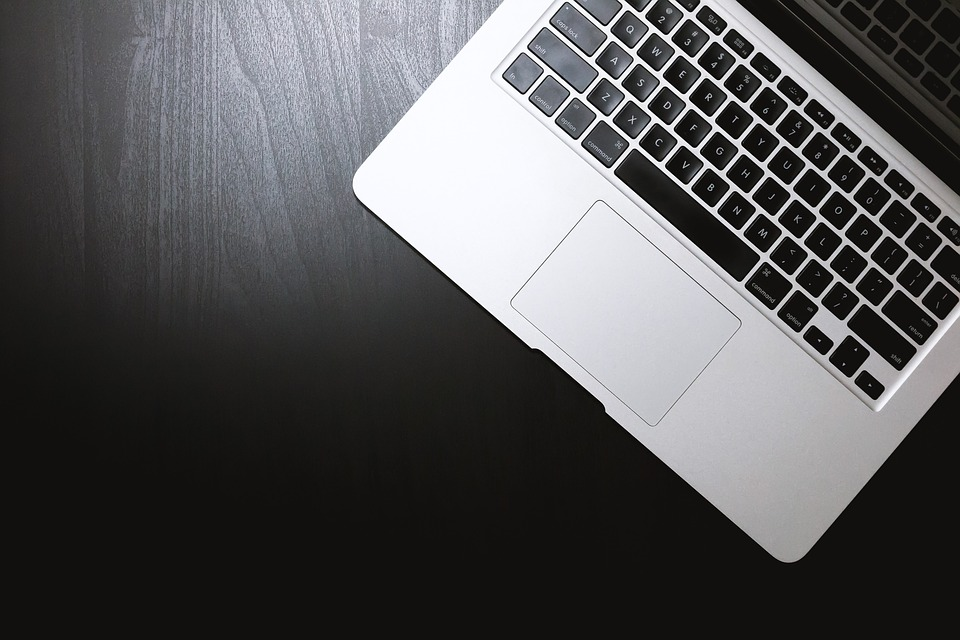
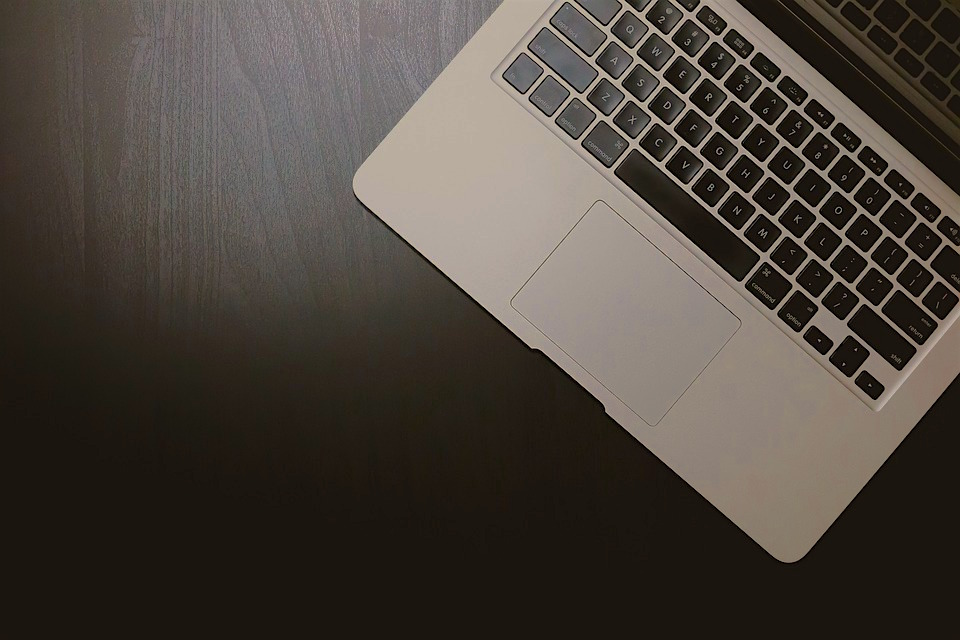
fixed some contrast issues on the lPTOP image

diff --git a/index.html b/index.html
@@ -7,6 +7,7 @@
 	<!-- CSS -->
 	<link href="https://maxcdn.bootstrapcdn.com/bootstrap/3.3.7/css/bootstrap.min.css" rel="stylesheet" integrity="sha384-BVYiiSIFeK1dGmJRAkycuHAHRg32OmUcww7on3RYdg4Va+PmSTsz/K68vbdEjh4u" crossorigin="anonymous">
 	<link href="https://maxcdn.bootstrapcdn.com/font-awesome/4.7.0/css/font-awesome.min.css" rel="stylesheet" integrity="sha384-wvfXpqpZZVQGK6TAh5PVlGOfQNHSoD2xbE+QkPxCAFlNEevoEH3Sl0sibVcOQVnN" crossorigin="anonymous">
+	<link href="https://fonts.googleapis.com/css?family=Roboto" rel="stylesheet">
 	<link rel="stylesheet" type="text/css" href="css/about.css">
 	<link rel="stylesheet" type="text/css" href="css/nav.css">
 	<link rel="stylesheet" type="text/css" href="css/home.css">

diff --git a/css/home.css b/css/home.css
@@ -4,6 +4,7 @@ html {
 
 body {
 	background-color: #292728;
+    font-family: 'Roboto', sans-serif;
 }
 
 .germany { 
@@ -23,7 +24,7 @@ body {
 }
 
 #germany-text {
-	color: black;
+	color: white;
 	text-align: center;
 }
 
